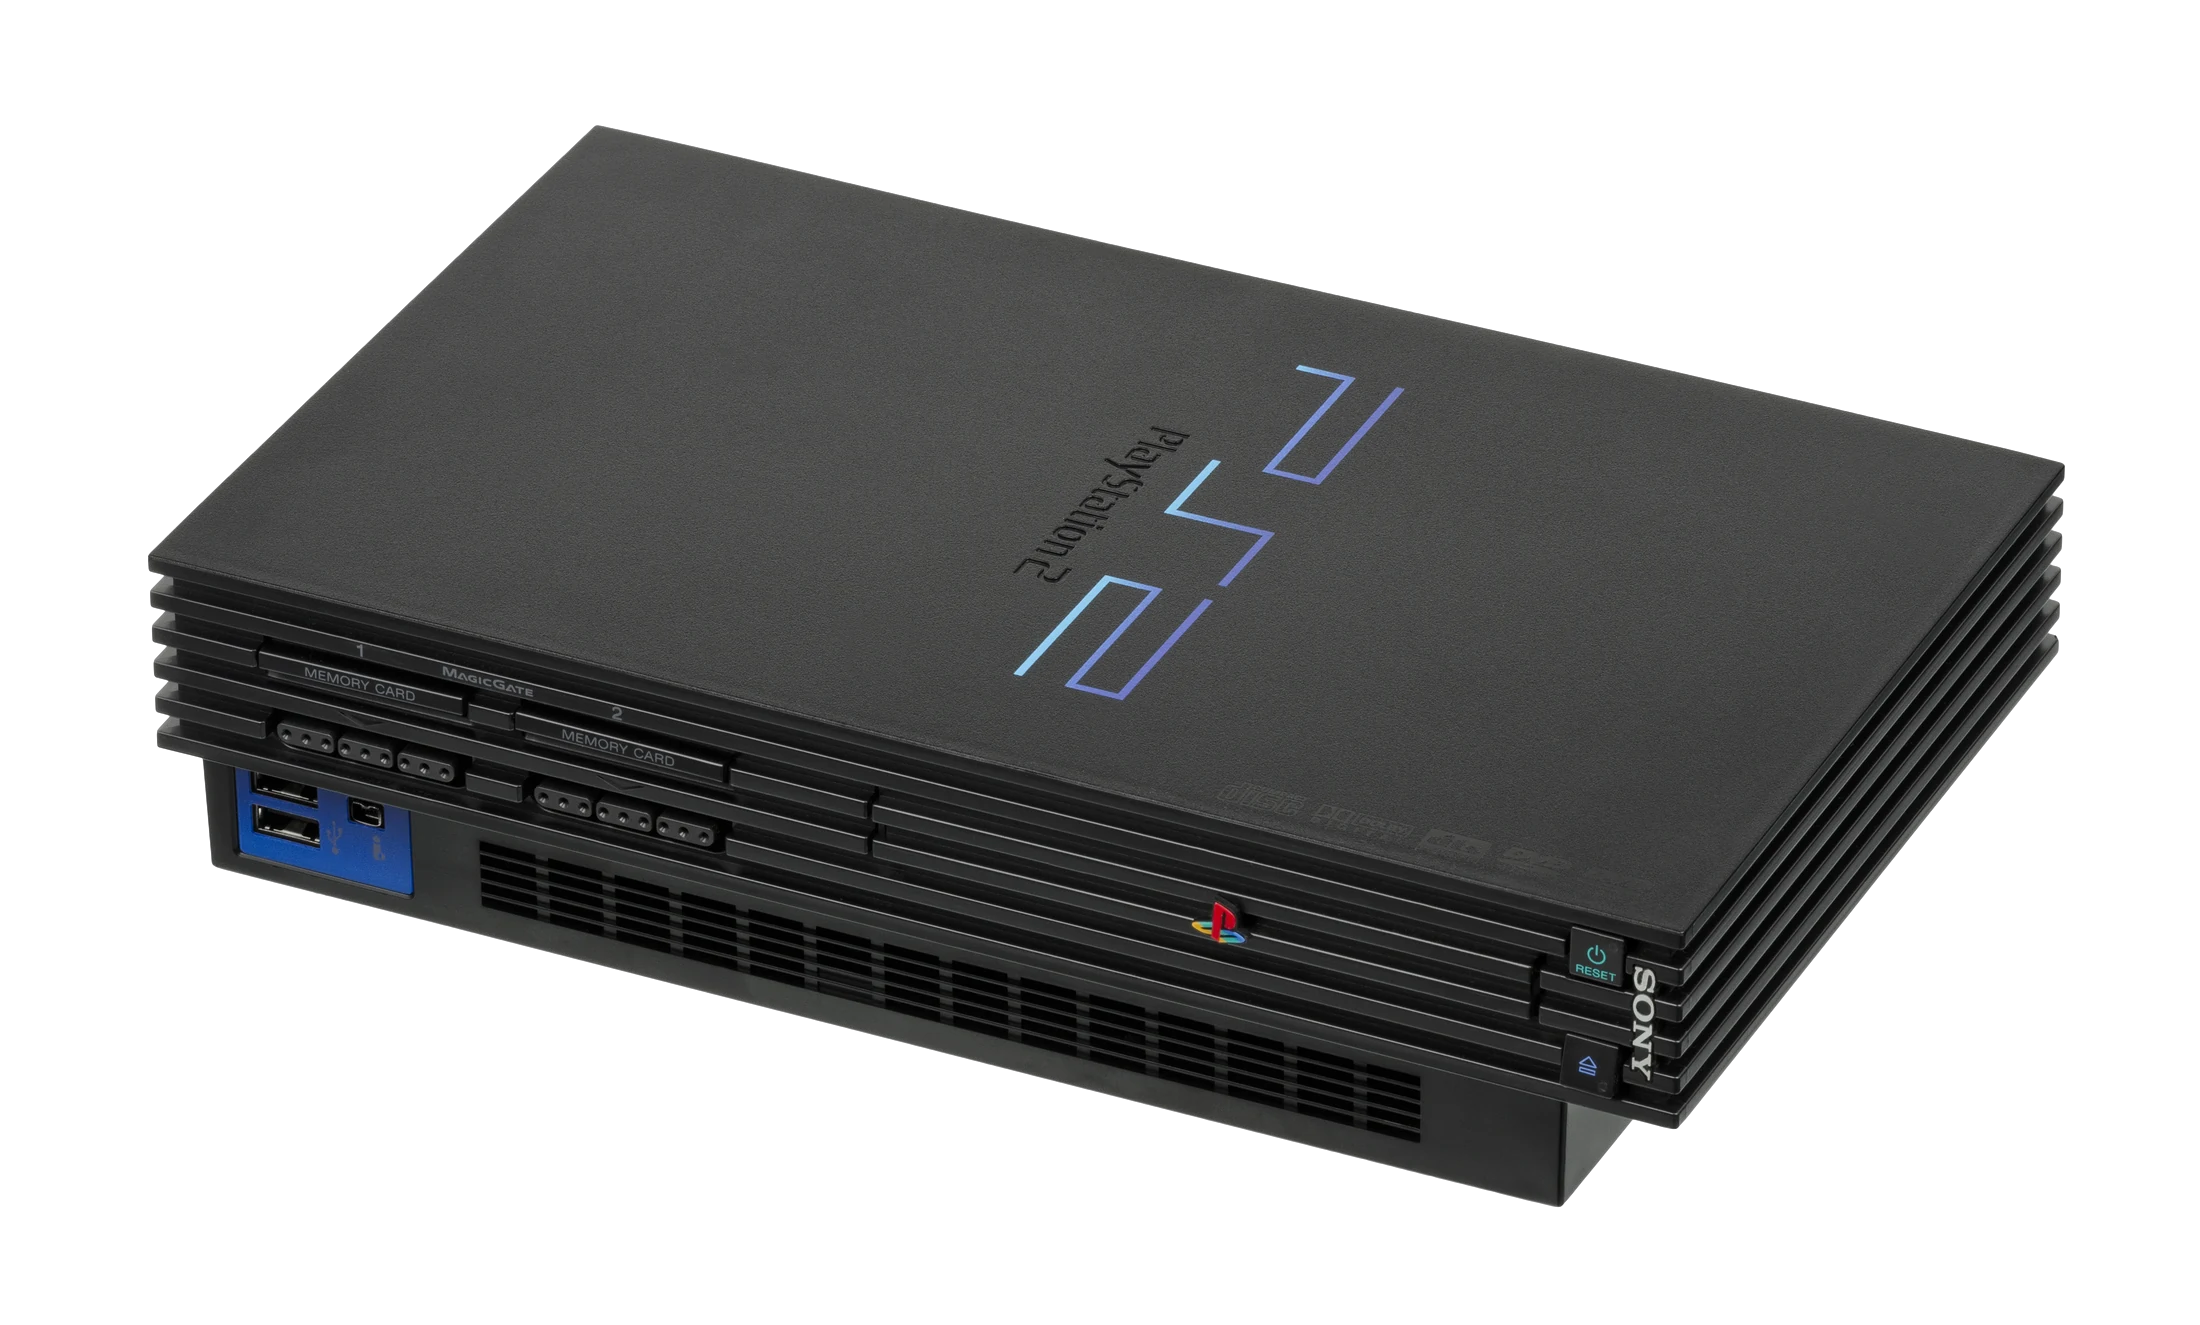
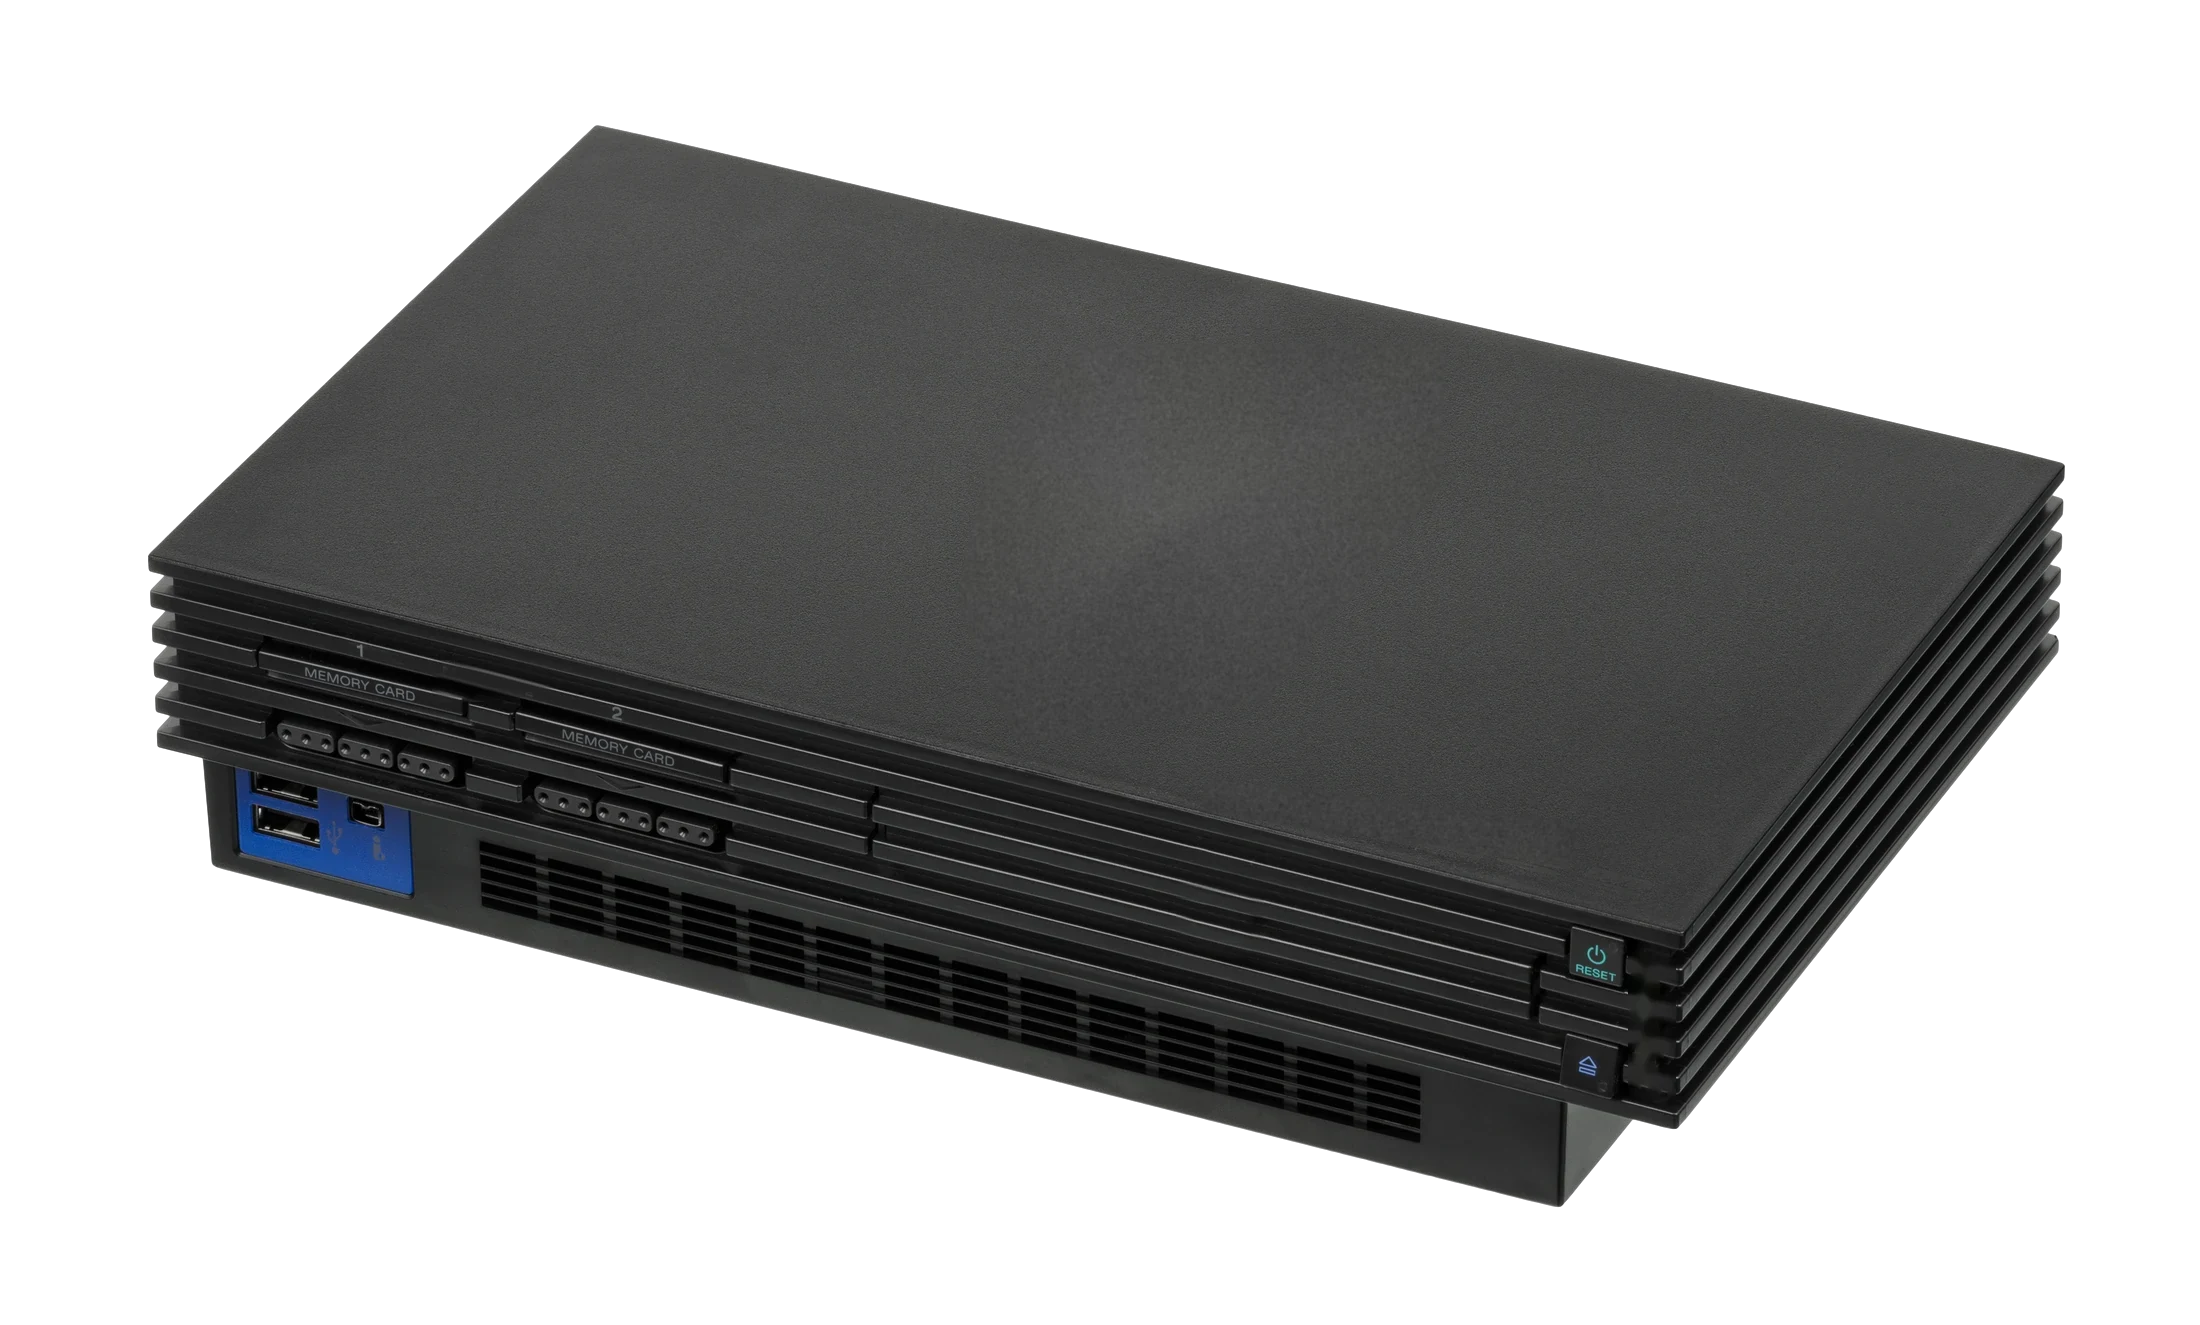
Disc library: no Sony or PlayStation marks on the console; only the power light
The console photo loses the PS2 logo and script on its top, the small
logos along the top's front edge, the PlayStation logo on the tray,
"SONY" beside the buttons and "MagicGate", each filled from its
surroundings (tools/wasm/delogo-photo.py). The eject button no longer
lights up with a disc in; the power light in Reset does.

diff --git a/pcsx2-wasm/web/library/disc-library.css b/pcsx2-wasm/web/library/disc-library.css
@@ -148,7 +148,7 @@
   background: #0d0d0e;
 }
 
-/* The power light (green) and the eject button's light (blue) come on with a disc in. */
+/* The power light (green, in the Reset button) comes on with a disc in. */
 .lib-led {
   position: absolute;
   width: 22px;
@@ -163,12 +163,6 @@
   left: 788px;
   top: 466px;
   background: radial-gradient(closest-side, rgb(90 255 140 / 0.85), rgb(40 200 90 / 0.35) 60%, transparent);
-}
-
-.lib-led-eject {
-  left: 784px;
-  top: 518px;
-  background: radial-gradient(closest-side, rgb(90 150 255 / 0.8), rgb(50 100 230 / 0.3) 60%, transparent);
 }
 
 .lib[data-disc="in"] .lib-led {

diff --git a/pcsx2-wasm/web/library/disc-library.js b/pcsx2-wasm/web/library/disc-library.js
@@ -111,7 +111,6 @@ const MARKUP = `
       <img class="lib-photo" src="${PHOTO_URL}" alt="" width="1100" height="662" draggable="false">
       <div class="lib-hole"></div>
       <div class="lib-led lib-led-power"></div>
-      <div class="lib-led lib-led-eject"></div>
     </div>
     <div class="lib-tray-clip" aria-hidden="true">
       <div class="lib-tray-move" data-el="trayMove">

diff --git a/tools/wasm/delogo-photo.py b/tools/wasm/delogo-photo.py
@@ -1,0 +1,124 @@
+#!/usr/bin/env python3
+# SPDX-FileCopyrightText: 2002-2026 PCSX2 Dev Team
+# SPDX-License-Identifier: GPL-3.0+
+
+"""Takes the trademarks out of the disc library's console photo (pcsx2-wasm/web/library/ps2.webp, after
+tools/wasm/cutout-photo.py): the PS2 logo and script on the top, the small logos along its front
+edge, the PlayStation logo on the tray, "SONY" beside the buttons and "MagicGate". Each is filled
+from its surroundings (the top's gradient and grain, the ridges beside it).
+
+Usage:
+    python3 tools/wasm/delogo-photo.py CUTOUT.webp OUTPUT.webp
+
+Needs numpy, opencv-python and Pillow (with WebP).
+"""
+
+import sys
+import numpy as np
+import cv2
+from PIL import Image
+
+src, dst = sys.argv[1], sys.argv[2]
+im = np.array(Image.open(src).convert("RGBA"))
+rgb = im[:, :, :3].astype(np.float32)
+alpha = im[:, :, 3]
+S = 2  # page units -> pixels
+
+def box(x0, y0, x1, y1):
+    return slice(y0 * S, y1 * S), slice(x0 * S, x1 * S)
+
+def feather(mask, r):
+    m = cv2.GaussianBlur(mask.astype(np.float32), (0, 0), r)
+    return np.clip(m, 0, 1)[..., None]
+
+# 1. The top surface: PS2 logo, "PlayStation 2" script, and the row of small logos at its front edge.
+#    The surface is a soft gradient with a fine texture: fill = smooth inpaint + texture from a clean patch.
+ref = box(300, 150, 450, 250)
+ref_patch = rgb[ref]
+GRAIN = float((ref_patch - cv2.GaussianBlur(ref_patch, (0, 0), 6)).mean(axis=2).std())
+
+
+def surface_fill(region, poly_pts, clean_shift=None):
+    ys, xs = region
+    sub = rgb[ys, xs].copy()
+    mask = np.zeros(sub.shape[:2], np.uint8)
+    pts = (np.array(poly_pts, np.float32) * S - [xs.start, ys.start]).astype(np.int32)
+    cv2.fillPoly(mask, [pts], 255)
+    low = cv2.GaussianBlur(sub, (0, 0), 6)
+    lowfill = cv2.inpaint(np.clip(low, 0, 255).astype(np.uint8), mask, 12, cv2.INPAINT_TELEA).astype(np.float32)
+    lowfill = cv2.GaussianBlur(lowfill, (0, 0), 10)
+    # The grain: noise with the spread of a clean part of the top (behind the logo, left of it).
+    rng = np.random.default_rng(7)
+    noise = rng.normal(0, 1, sub.shape[:2]).astype(np.float32)
+    noise = cv2.GaussianBlur(noise, (0, 0), 0.9)
+    noise *= 0.6 * GRAIN / max(noise.std(), 1e-6)
+    fill = lowfill + noise[..., None]
+    f = feather(mask > 0, 4)
+    rgb[ys, xs] = sub * (1 - f) + fill * f
+
+# The big logo and the script (a polygon around them on the top face).
+surface_fill(box(470, 160, 740, 370),
+             [(540, 172), (722, 172), (720, 242), (632, 350), (508, 372), (478, 300), (496, 222)],
+             (-260 * S, 10 * S))
+# The small logos along the front edge of the top.
+surface_fill(box(590, 380, 800, 440),
+             [(605, 389), (790, 412), (785, 433), (600, 405)],
+             (0, -55 * S))
+
+# 2. The PlayStation logo on the tray's front: ridges copied from beside it, along the ridges' slope.
+def ridge_copy(x0, y0, x1, y1, dx, slope, feather_r=3):
+    ys, xs = box(x0, y0, x1, y1)
+    sdx = dx * S
+    sdy = int(round(dx * slope * S))
+    src_patch = rgb[ys.start + sdy:ys.stop + sdy, xs.start + sdx:xs.stop + sdx]
+    mask = np.zeros(src_patch.shape[:2], np.uint8)
+    h, w = mask.shape
+    cv2.rectangle(mask, (8, 8), (w - 9, h - 9), 255, -1)
+    f = feather(mask > 0, feather_r * S)
+    rgb[ys, xs] = rgb[ys, xs] * (1 - f) + src_patch * f
+
+ridge_copy(588, 440, 632, 480, -60, 0.26)
+
+# 3. "SONY" on the strip right of the buttons: the letters (light pixels) painted from around them.
+def paint_out_letters(x0, y0, x1, y1, level):
+    ys, xs = box(x0, y0, x1, y1)
+    sub = np.clip(rgb[ys, xs], 0, 255).astype(np.uint8)
+    mask = (sub.mean(axis=2) > level).astype(np.uint8) * 255
+    mask = cv2.dilate(mask, np.ones((5, 5), np.uint8), iterations=2)
+    rgb[ys, xs] = cv2.inpaint(sub, mask, 6, cv2.INPAINT_TELEA).astype(np.float32)
+
+paint_out_letters(814, 474, 838, 550, 70)
+
+# 4. "MagicGate" next to memory card slot 1.
+def shift_copy(x0, y0, x1, y1, dx, dy, feather_r=2):
+    ys, xs = box(x0, y0, x1, y1)
+    src_patch = rgb[ys.start + dy * S:ys.stop + dy * S, xs.start + dx * S:xs.stop + dx * S].copy()
+    mask = np.zeros(src_patch.shape[:2], np.uint8)
+    h, w = mask.shape
+    cv2.rectangle(mask, (6, 6), (w - 7, h - 7), 255, -1)
+    f = feather(mask > 0, feather_r * S)
+    rgb[ys, xs] = rgb[ys, xs] * (1 - f) + src_patch * f
+
+# The ridge band continued from a clean stretch right of the text (x 279-285), along the ridges' slope.
+def extrude_band(x0, y0, x1, y1, xr0, xr1, slope, feather_r=2):
+    ys, xs = box(x0, y0, x1, y1)
+    h, w = ys.stop - ys.start, xs.stop - xs.start
+    ref = rgb[:, xr0 * S:xr1 * S].mean(axis=1)  # one column, averaged over the clean stretch
+    xc = (xr0 + xr1) / 2 * S
+    out = np.zeros((h, w, 3), np.float32)
+    for j in range(w):
+        x = xs.start + j
+        for i in range(h):
+            yy = ys.start + i + slope * (xc - x)
+            y0f = int(np.floor(yy))
+            t = yy - y0f
+            out[i, j] = ref[y0f] * (1 - t) + ref[y0f + 1] * t
+    mask = np.zeros((h, w), np.uint8)
+    cv2.rectangle(mask, (5, 5), (w - 6, h - 6), 255, -1)
+    f = feather(mask > 0, feather_r * S)
+    rgb[ys, xs] = rgb[ys, xs] * (1 - f) + out * f
+
+extrude_band(216, 330, 277, 351, 279, 285, 0.26)
+
+out = np.dstack([np.clip(rgb, 0, 255).astype(np.uint8), alpha])
+Image.fromarray(out, "RGBA").save(dst, quality=88, method=6)

diff --git a/docs/web-port/UI-SPEC.md b/docs/web-port/UI-SPEC.md
@@ -583,6 +583,6 @@ A second way to choose a disc, from a folder of disc images (`library/disc-libra
 
 **The scene.** A shelf of discs above a photo of a PS2 (Evan-Amos, public domain). The disc in front is upright and larger, its title, `serial · region · DVD · 4.2 GB` and file name under it. Arrows, Page Up/Down, Home/End, type-ahead, the wheel, drag and fling move along the shelf; Enter, Space or a click on the front disc puts it in; a click on another disc brings it to the front. Each disc is printed with an image from the folder named like PCSX2's covers, else the game's cover from the ps2-covers collection (fetched by serial: the one request the page makes to another origin), else a label drawn from its title and serial.
 
-**The insert.** Inside the press, the disc is chosen and its boot queued, as "Choose a disc…" then Boot. The tray (the photo's own front panel) slides out, the disc arcs over and flattens into it, the tray closes, the power and eject lights come on, and the room goes dark with "Starting <title>." The dialog stays, dark, until the game shows a picture (a frame with more than near-black in it), the boot fails, or 25 s pass; then it fades out over 500 ms and the screen takes the keyboard. So the boot and the game's black loading frames are never seen. Esc and Close do nothing while a disc goes in. A disc that cannot go in (no BIOS, the PS2 running) says why in coral under the shelf's text.
+**The insert.** Inside the press, the disc is chosen and its boot queued, as "Choose a disc…" then Boot. The tray (the photo's own front panel) slides out, the disc arcs over and flattens into it, the tray closes, the power light in the Reset button comes on, and the room goes dark with "Starting <title>." The dialog stays, dark, until the game shows a picture (a frame with more than near-black in it), the boot fails, or 25 s pass; then it fades out over 500 ms and the screen takes the keyboard. So the boot and the game's black loading frames are never seen. Esc and Close do nothing while a disc goes in. A disc that cannot go in (no BIOS, the PS2 running) says why in coral under the shelf's text.
 
-**Motion.** The tray and the disc move (about 3 s in all); with reduced motion every duration is 0. Departures from §1, on purpose and only here: a photo, moving objects, a translucent disc hub, and the console's two lights glowing.
+**Motion.** The tray and the disc move (about 3 s in all); with reduced motion every duration is 0. Departures from §1, on purpose and only here: a photo, moving objects, a translucent disc hub, and the console's power light glowing. The photo carries no Sony or PlayStation marks: they were taken out of it (`tools/wasm/delogo-photo.py`).

diff --git a/AGENTS.md b/AGENTS.md
@@ -150,7 +150,8 @@ bring any new engineering guidance over here.
   with Sony or the PCSX2 project.
 - No Sony trademarks or trade dress: no PlayStation logos or fonts, no imitation of the PS2's own
   interface. The one exception, asked for by the owner: the disc library shows a public-domain
-  photo of a PS2 (`pcsx2-wasm/web/library/ps2-photo.txt`). Do not use screenshots of the BIOS or
+  photo of a PS2, with its Sony and PlayStation marks taken out
+  (`pcsx2-wasm/web/library/ps2-photo.txt`). Do not use screenshots of the BIOS or
   games in the repository.
 - The project is GPL-3.0. Keep upstream copyright notices.
 
